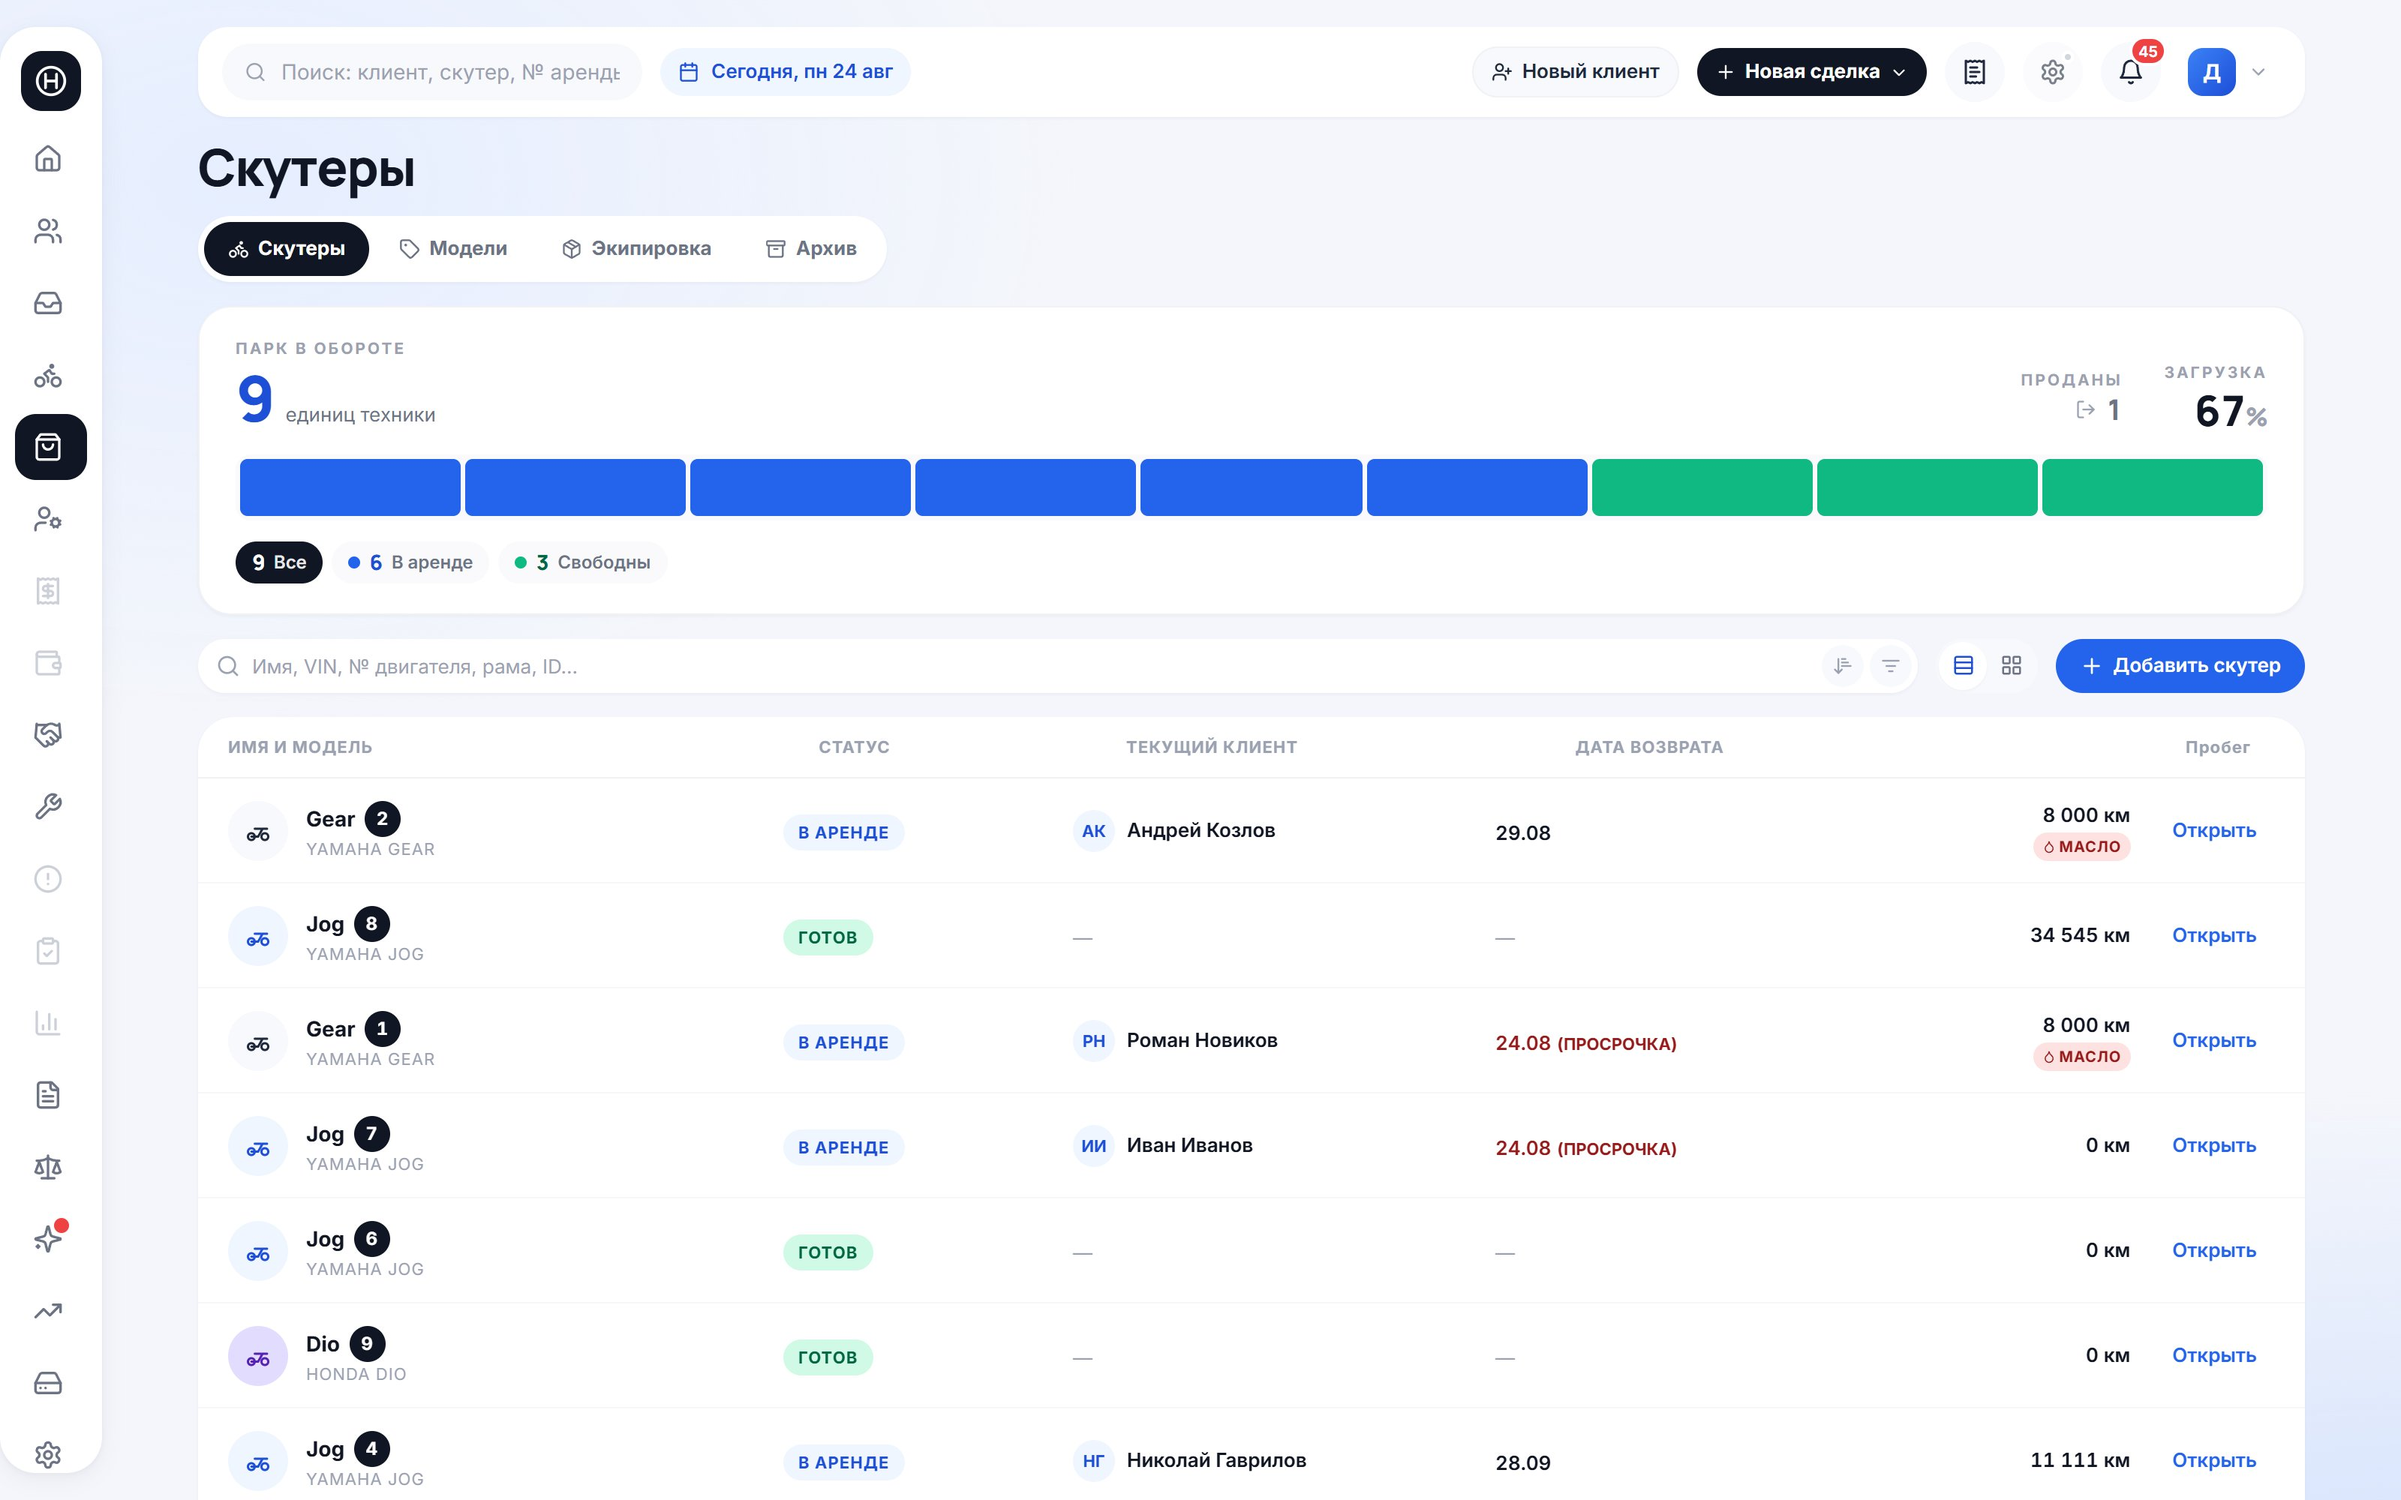
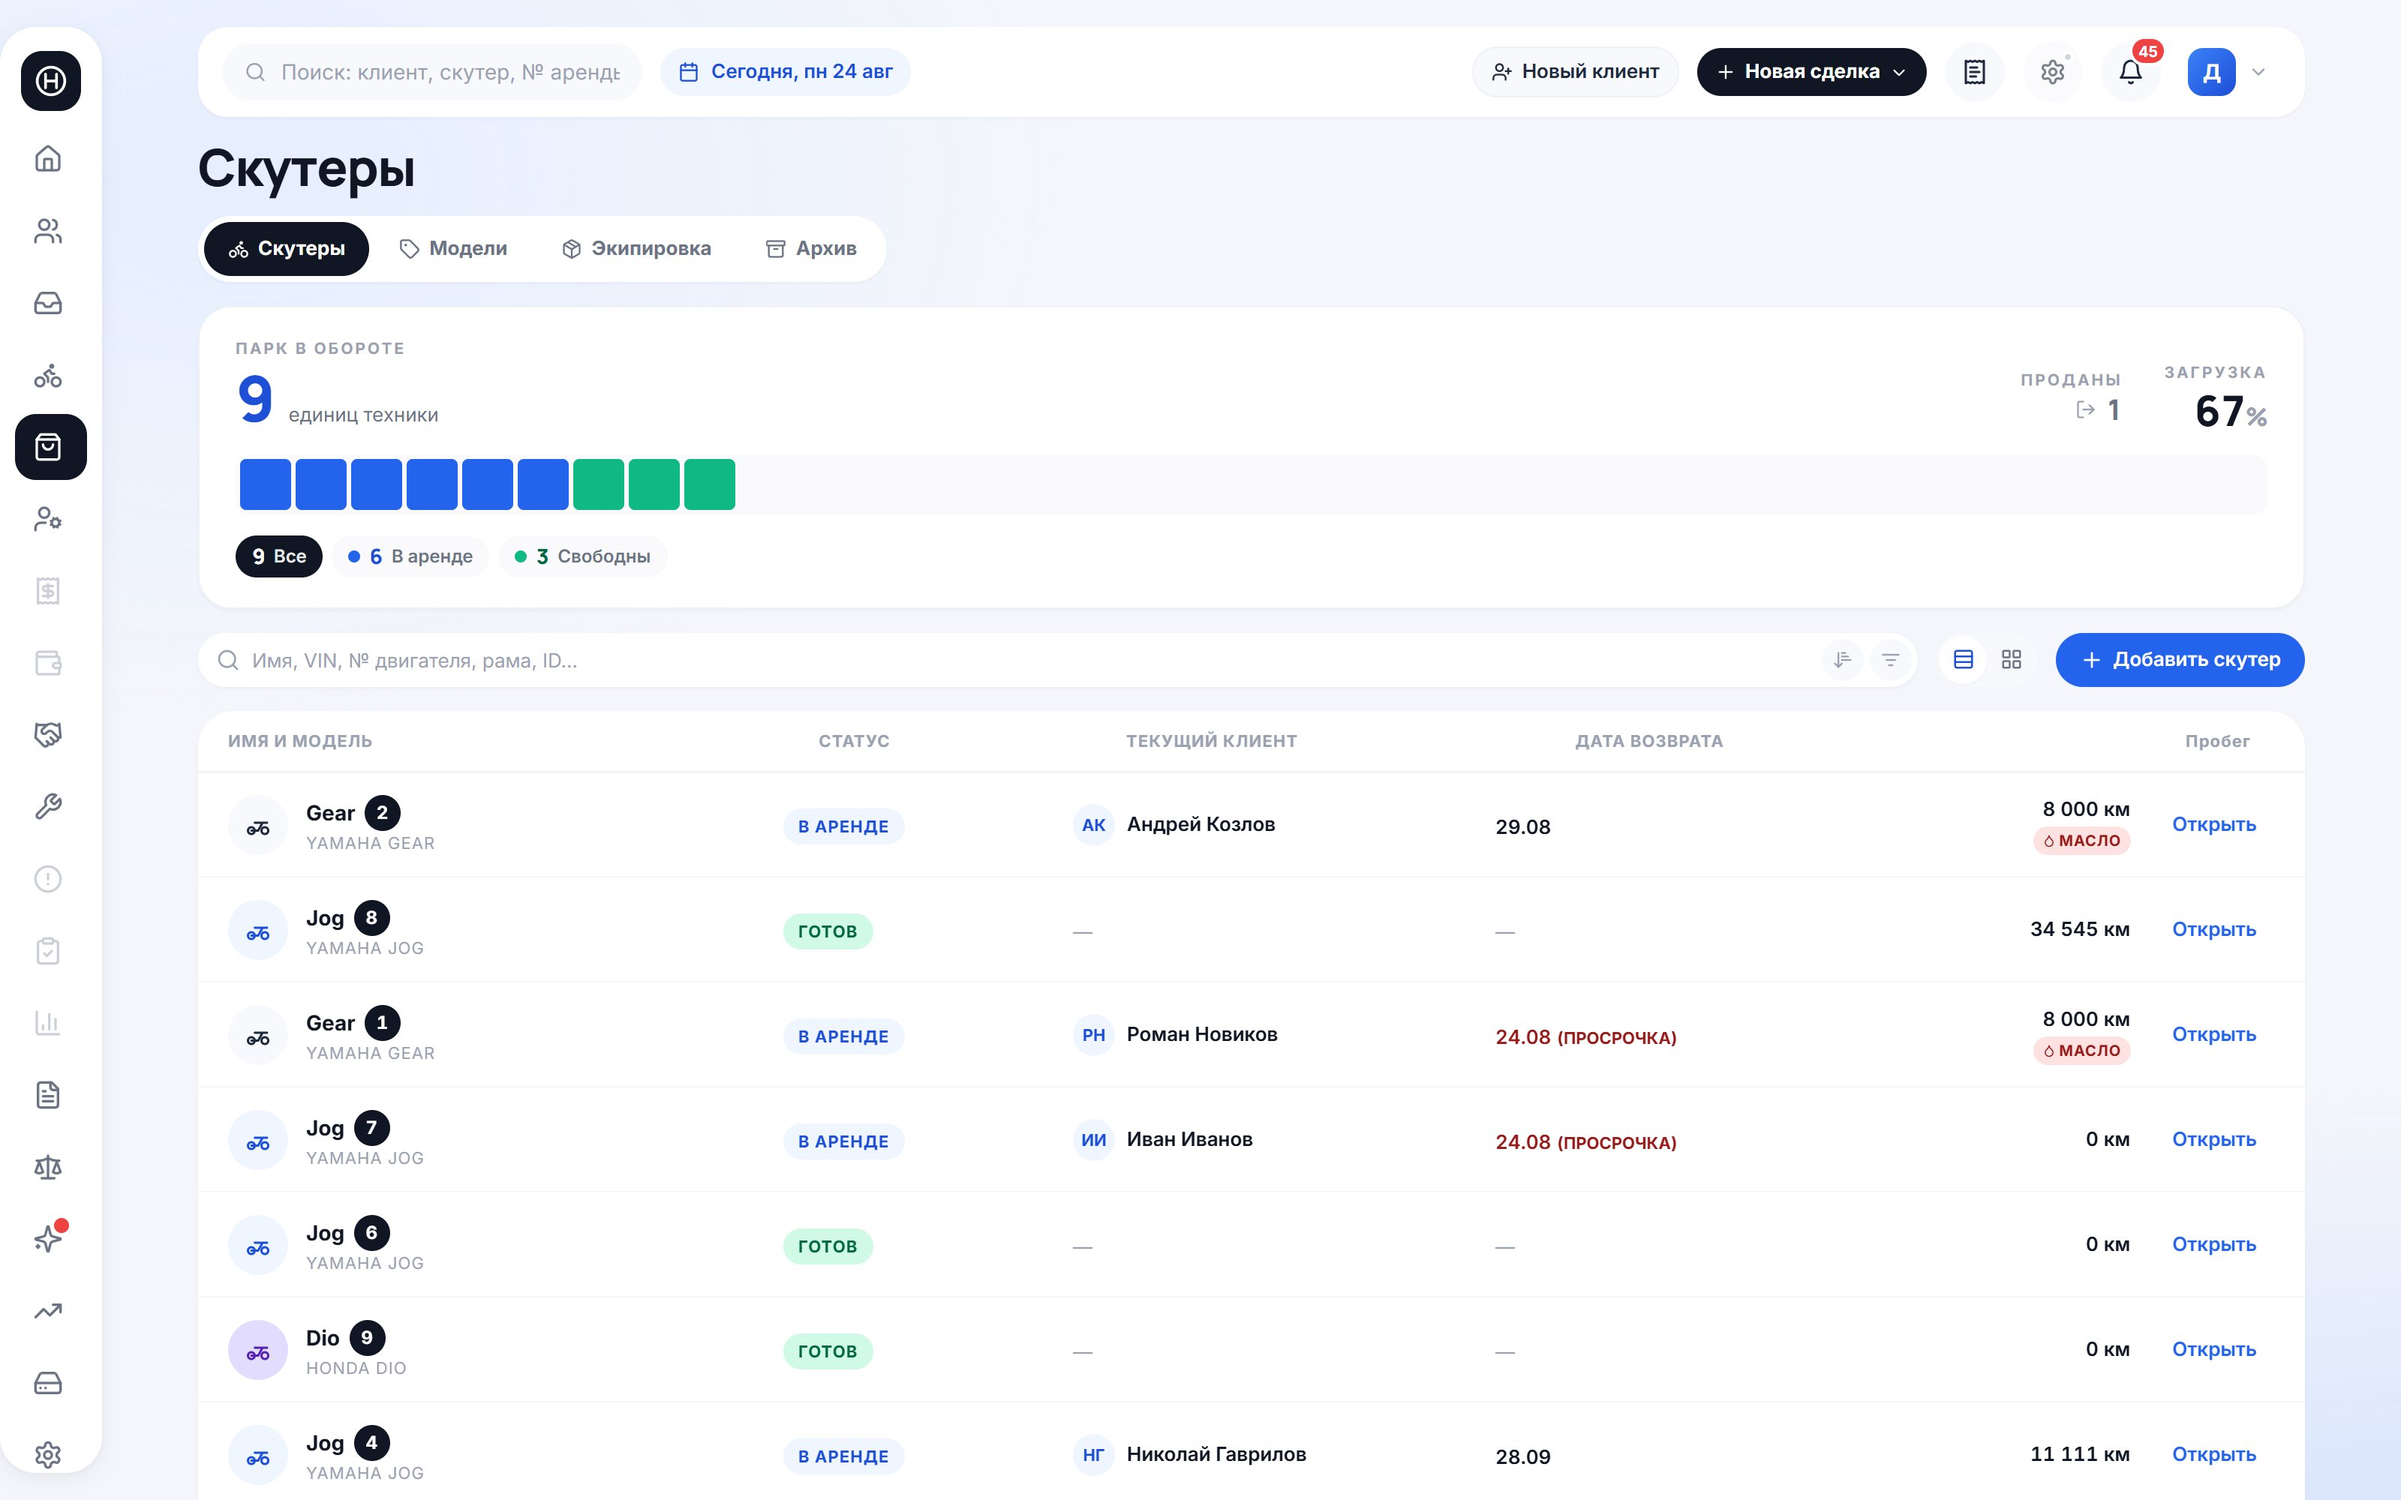
fix(парк): дорожка ленты по содержимому — длина показывает объём парка

diff --git a/apps/web/src/pages/fleet/Fleet.tsx b/apps/web/src/pages/fleet/Fleet.tsx
@@ -922,7 +922,12 @@ function ParkOverview({
       </div>
 
       {/* ── Лента парка: каждая единица техники — штрих ── */}
-      <div className="mt-4 flex h-10 items-stretch justify-start gap-[3px] overflow-hidden rounded-[10px] bg-surface-soft/70 p-[3px]">
+      <div
+        className={cn(
+          "mt-4 flex h-10 max-w-full items-stretch justify-start gap-[3px] overflow-hidden rounded-[10px] bg-surface-soft/70 p-[3px]",
+          perUnit ? "w-fit" : "w-full",
+        )}
+      >
         {counters.total === 0 ? (
           <div className="flex w-full items-center justify-center text-[12px] text-muted-2">
             В парке пока нет техники

diff --git a/apps/web/src/mobile/pages/MobileScooters.tsx b/apps/web/src/mobile/pages/MobileScooters.tsx
@@ -292,7 +292,12 @@ function ParkStrip({
           </div>
         </div>
       </div>
-      <div className="mt-3 flex h-8 items-stretch justify-start gap-[2px] overflow-hidden rounded-[9px] bg-surface-soft/70 p-[2px]">
+      <div
+        className={cn(
+          "mt-3 flex h-8 max-w-full items-stretch justify-start gap-[2px] overflow-hidden rounded-[9px] bg-surface-soft/70 p-[2px]",
+          perUnit ? "w-fit" : "w-full",
+        )}
+      >
         {perUnit
           ? segments.flatMap((seg) =>
               Array.from({ length: seg.value }, (_, i) => (
